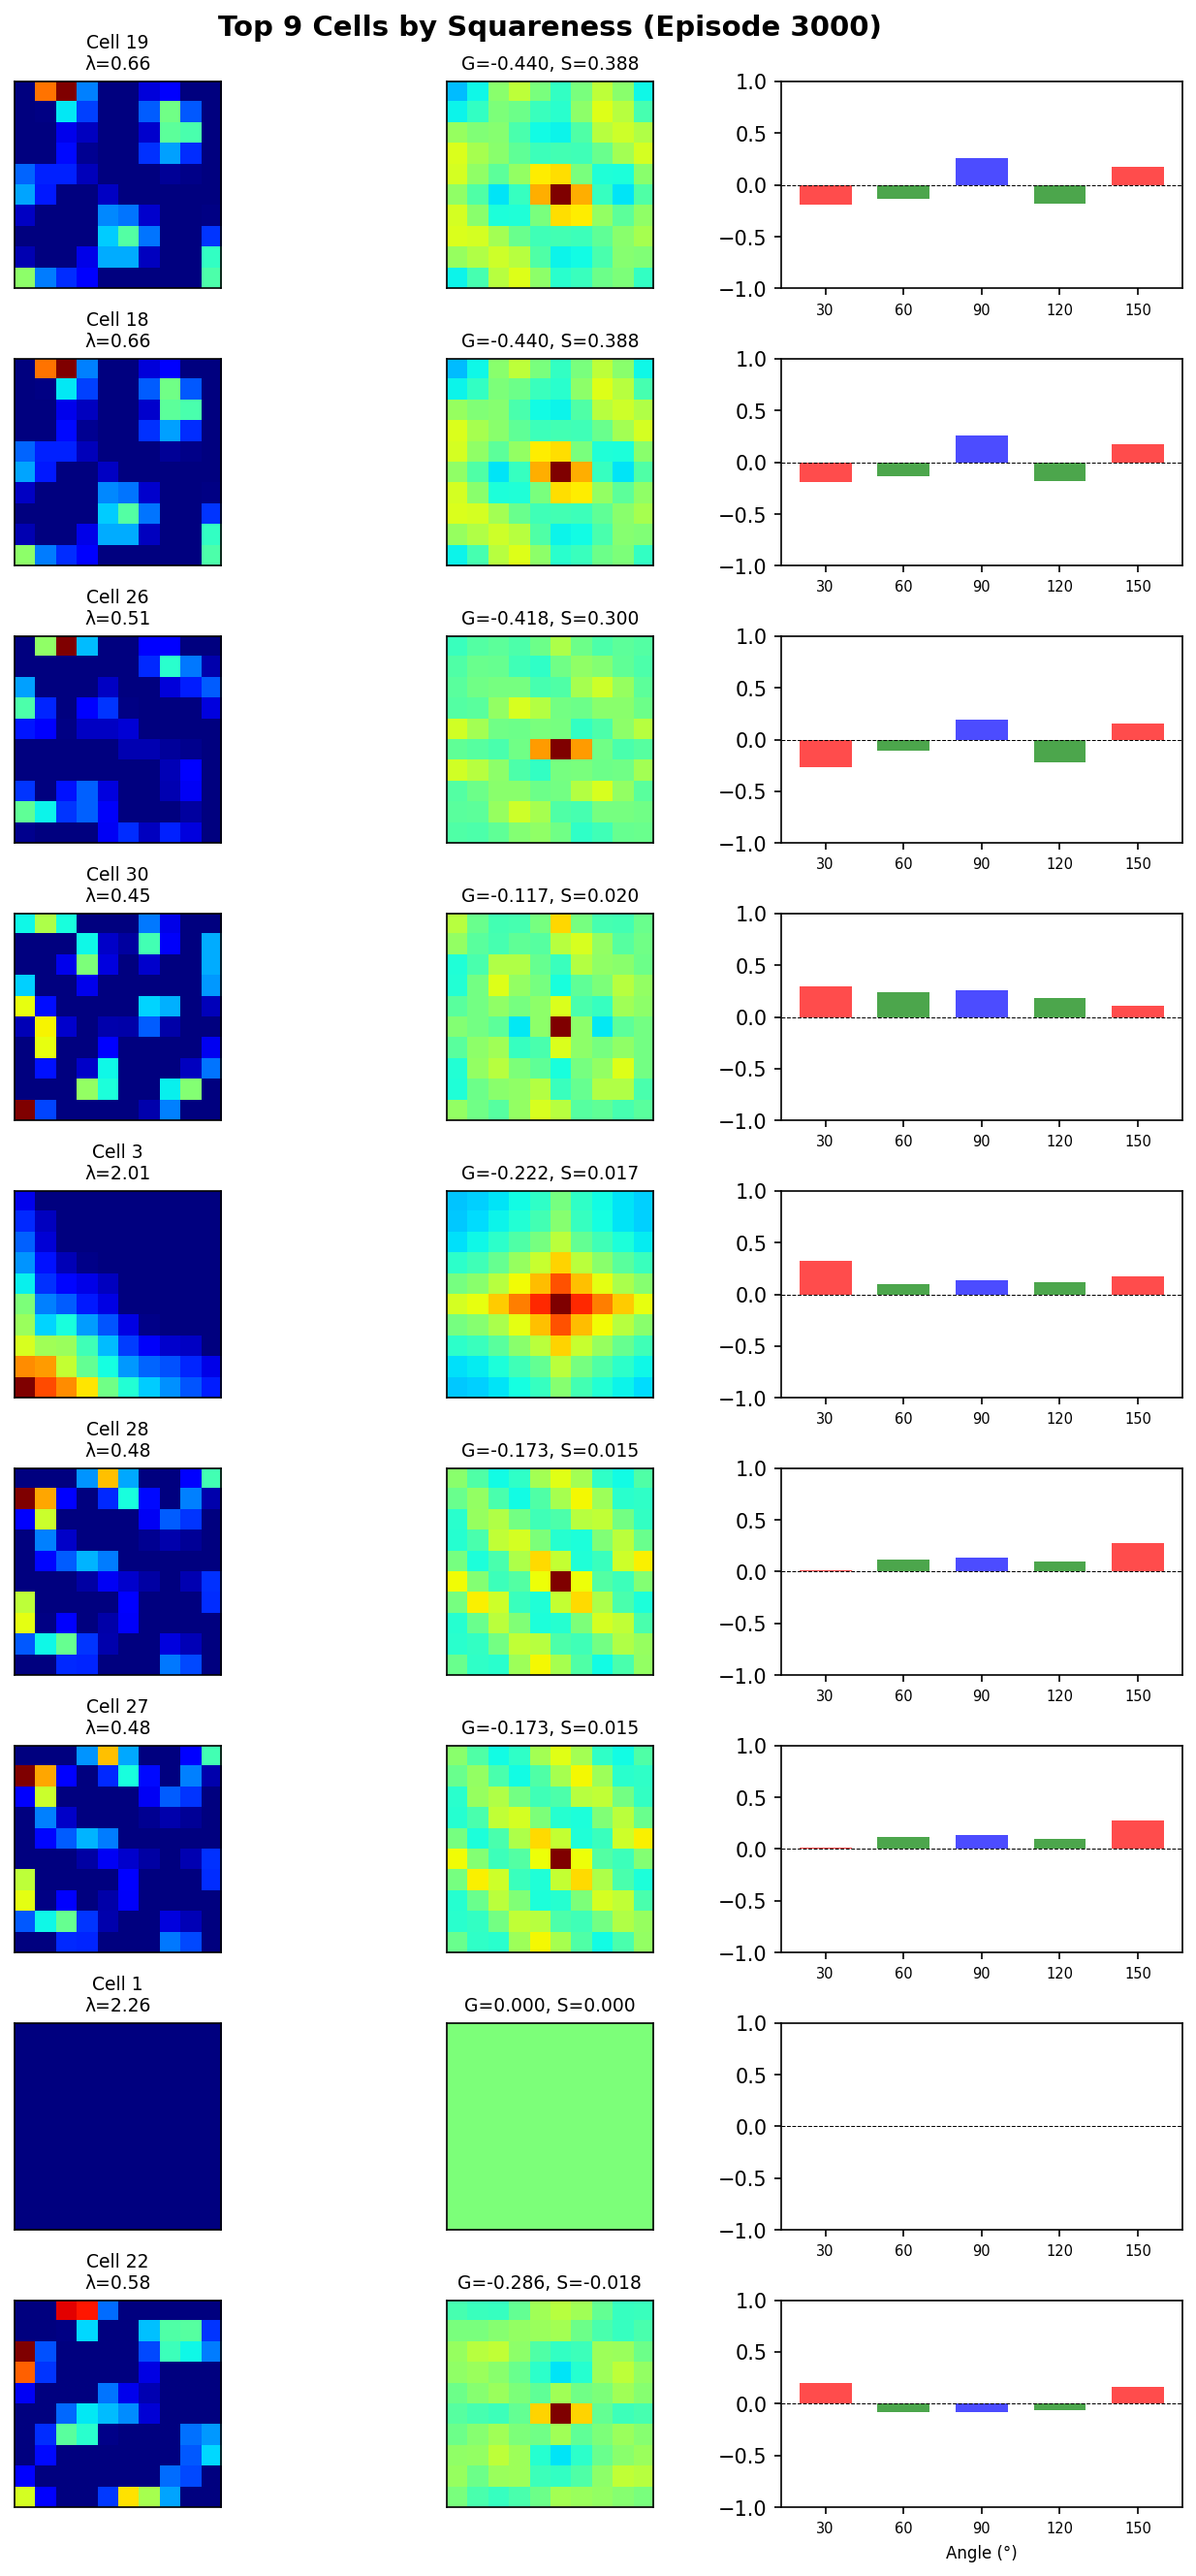
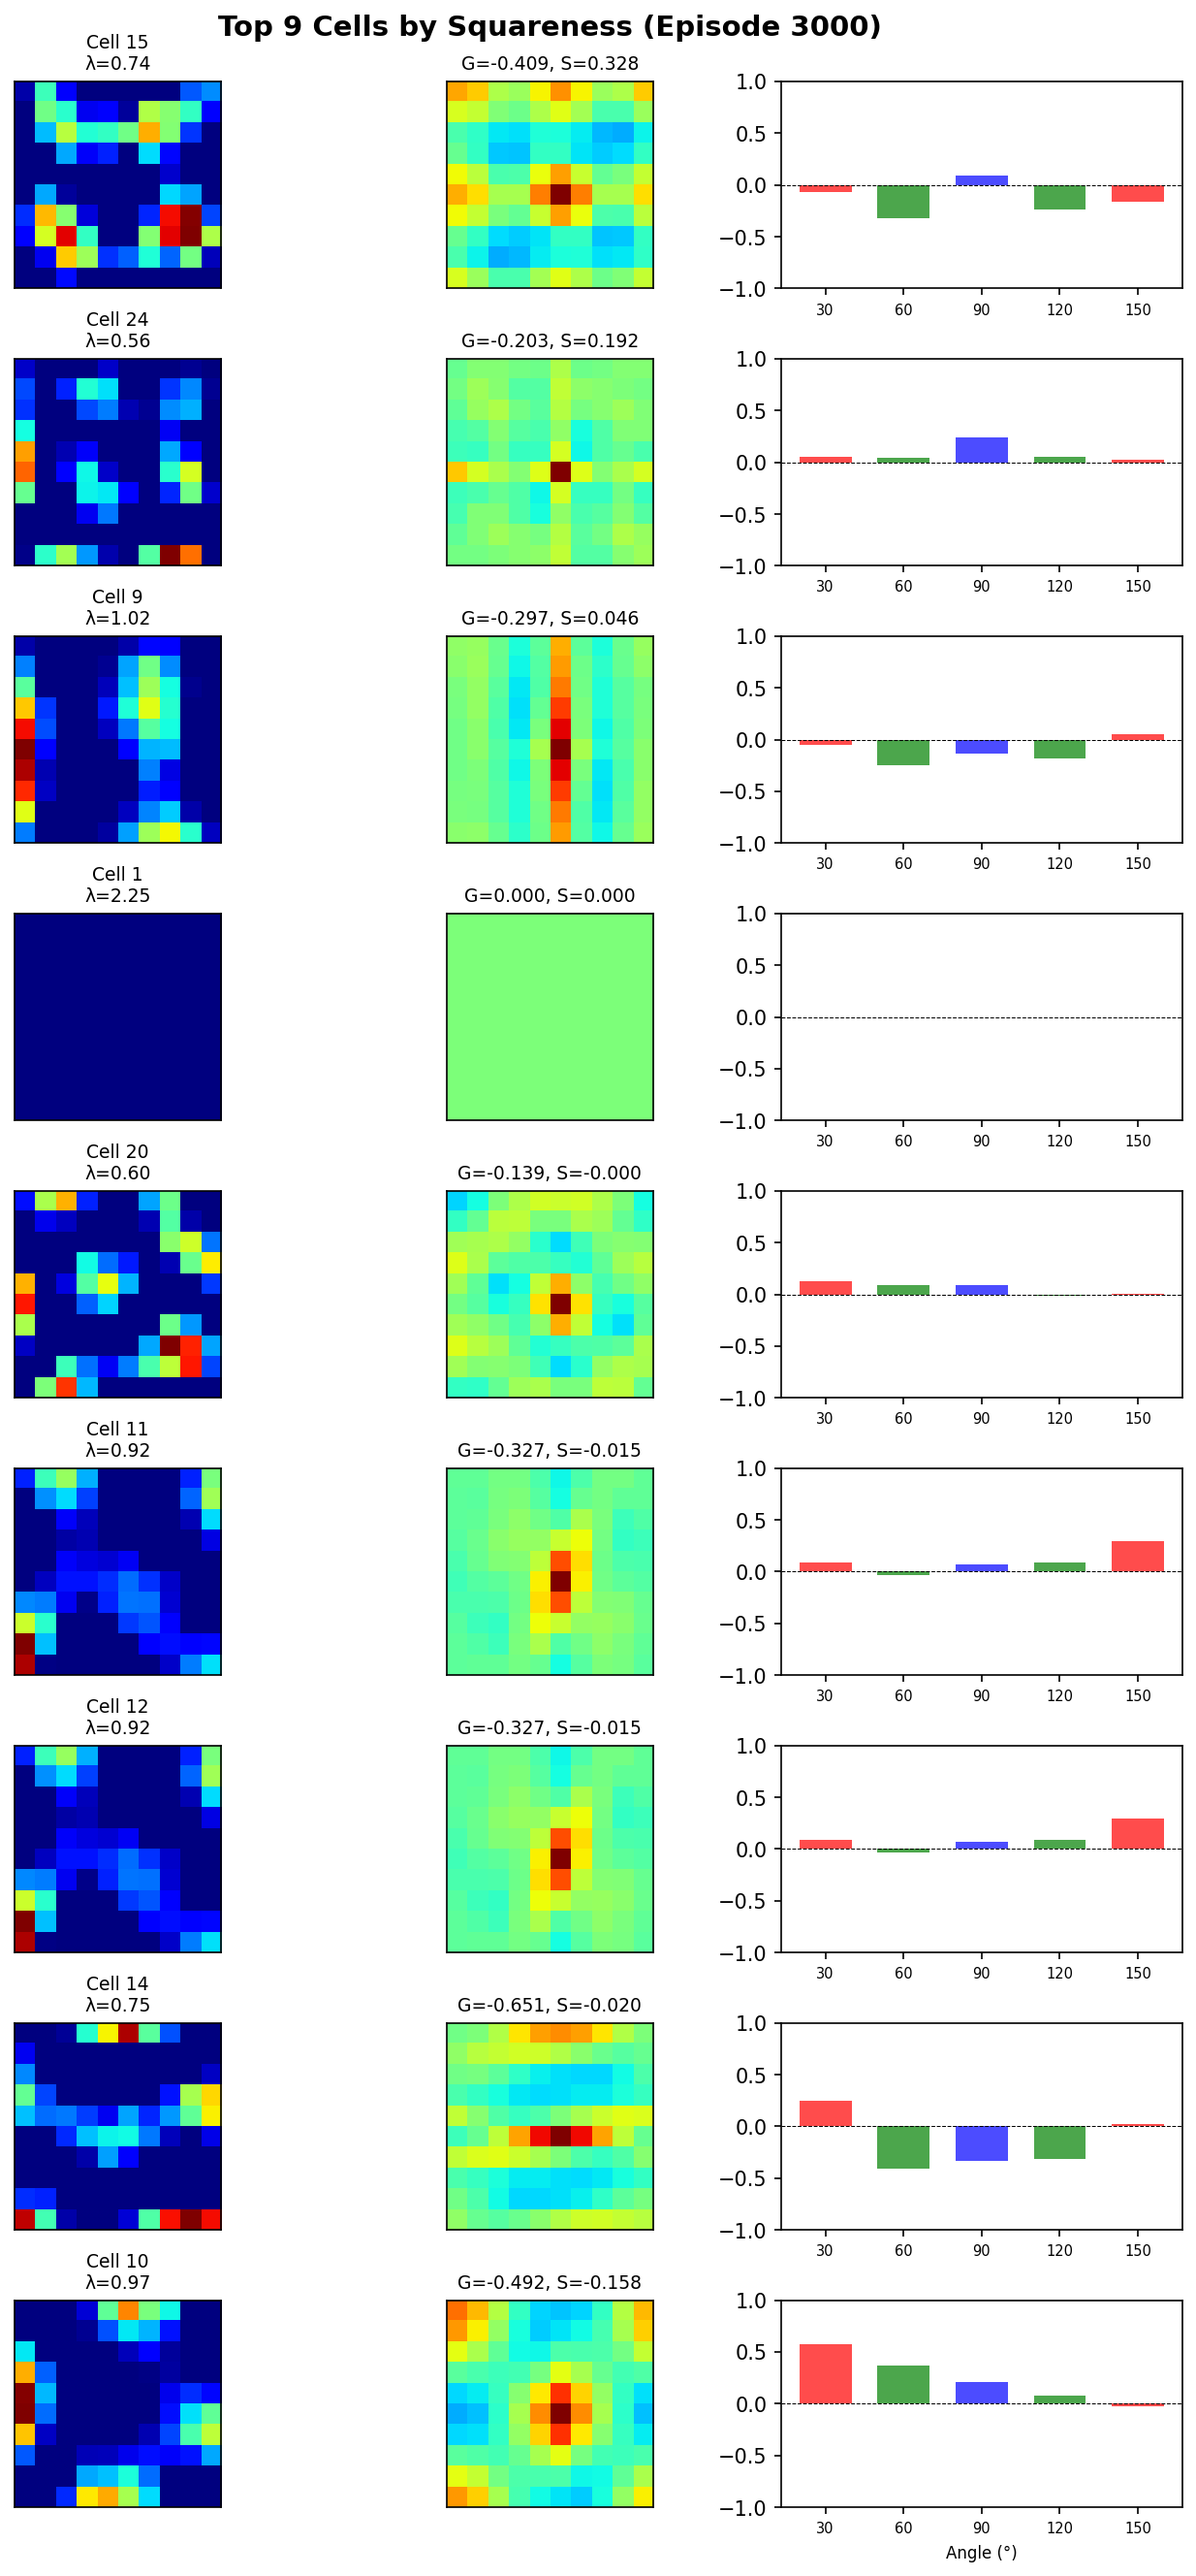
lets try with a larger env

diff --git a/2D_Partial_Observability/analyse_grid_cells.py b/2D_Partial_Observability/analyse_grid_cells.py
@@ -81,7 +81,7 @@ def compute_squareness_score(rate_map, grid_size):
     return gridness, squareness, autocorr, correlations
 
 
-def analyze_sr_matrix(sr_path, output_dir='grid_cell_analysis', n_eigenvectors=30):
+def analyze_sr_matrix(sr_path, output_dir='grid_cell_analysis', n_eigenvectors=24):
     """
     Load an SR matrix and analyze it for grid cell patterns.
     
@@ -300,7 +300,7 @@ def main():
                        help='Directory containing SR matrices')
     parser.add_argument('--output_dir', type=str, default='grid_cell_analysis',
                        help='Output directory for visualizations')
-    parser.add_argument('--n_eigenvectors', type=int, default=30,
+    parser.add_argument('--n_eigenvectors', type=int, default=24,
                        help='Number of eigenvectors to analyze')
     
     args = parser.parse_args()

diff --git a/2D_Partial_Observability/main_q_learning.py b/2D_Partial_Observability/main_q_learning.py
@@ -833,10 +833,10 @@ def main():
     print("Starting baseline comparison experiment with path integration...")
 
     # Initialize experiment runner
-    runner = ExperimentRunner(env_size=10, num_seeds=1)
+    runner = ExperimentRunner(env_size=20, num_seeds=1)
 
     # Run experiments
-    results = runner.run_comparison_experiment(episodes=10001, max_steps=200, manual = False)
+    results = runner.run_comparison_experiment(episodes=9001, max_steps=200, manual = False)
 
     # Analyze and plot results
     summary = runner.analyze_results(window=100)
